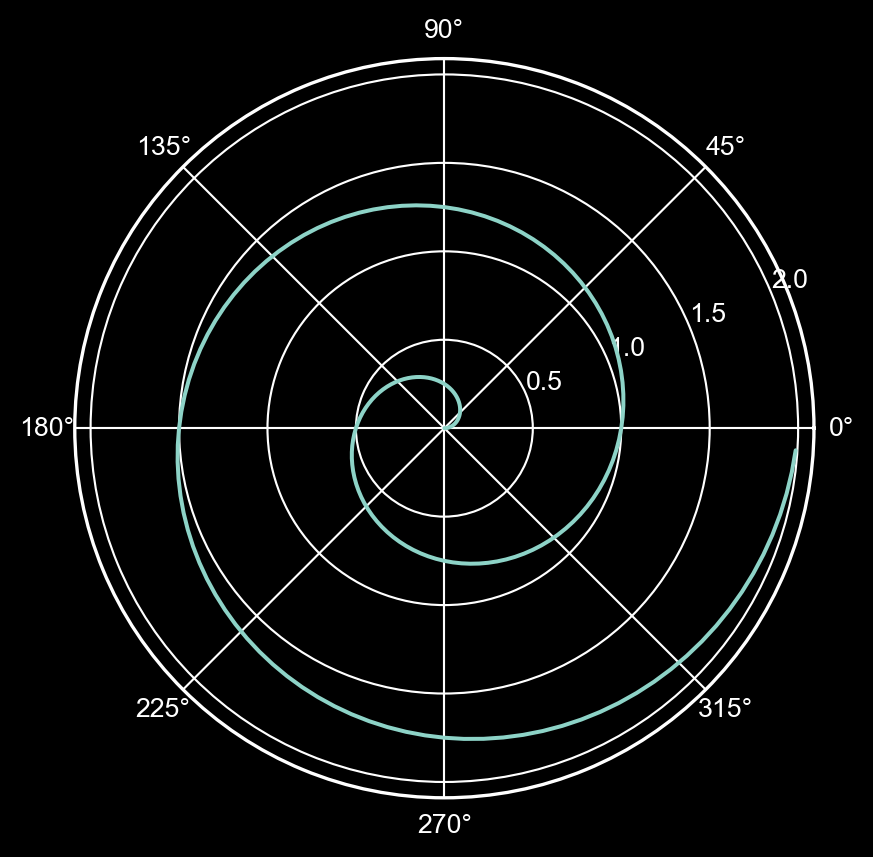
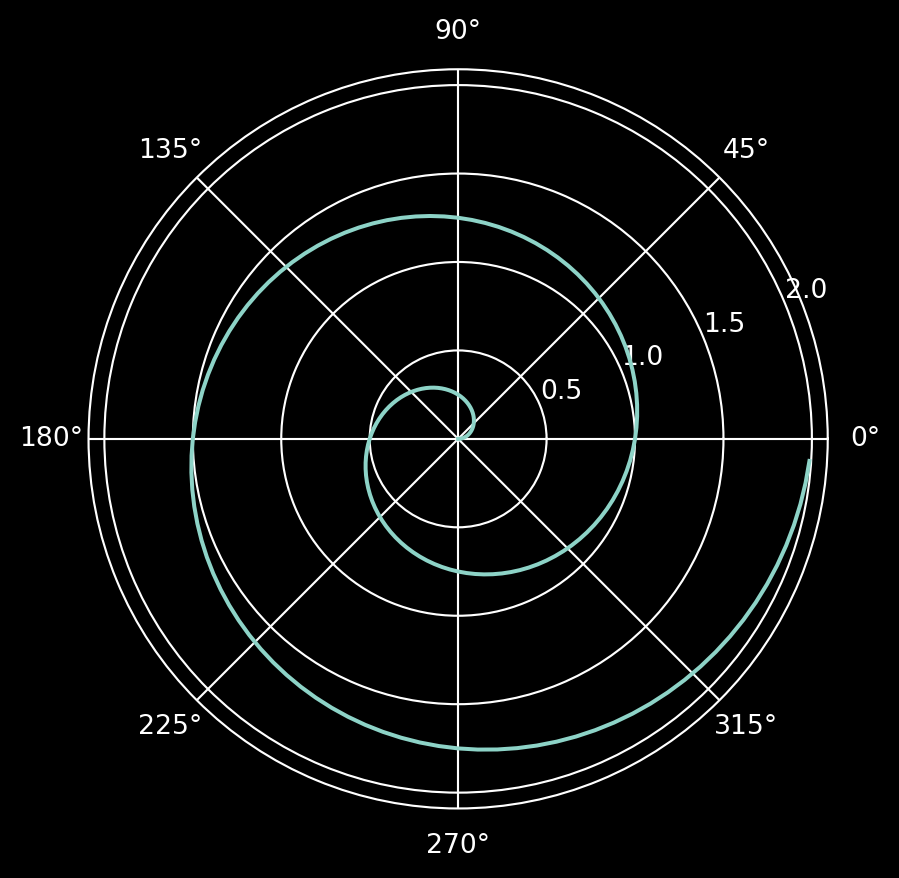
fix

diff --git a/index.scss b/index.scss
@@ -1,6 +1,6 @@
 @import url("https://cdn.jsdelivr.net/gh/wan2land/d2coding/d2coding-ligature-subset.css");
-@import url("https://cdn.jsdelivr.net/gh/sunn-us/SUIT/fonts/variable/woff2/SUIT-Variable.css");
-@import url("https://cdn.jsdelivr.net/gh/sunn-us/SUITE/fonts/variable/woff2/SUITE-Variable.css");
+@import url("https://cdn.jsdelivr.net/gh/sunn-us/SUIT/fonts/static/woff2/SUIT.css");
+@import url("https://cdn.jsdelivr.net/gh/sunn-us/SUITE/fonts/static/woff2/SUITE.css");
 
 /*-- scss:rules --*/
 .reveal h1, 

diff --git a/index.html b/index.html
@@ -802,7 +802,7 @@
 <div class="cell-output cell-output-display">
 <div id="fig-polar" class="quarto-figure quarto-figure-center">
 <figure>
-<p><img data-src="index_files/figure-revealjs/fig-polar-output-1.png" width="437" height="429"></p>
+<p><img data-src="index_files/figure-revealjs/fig-polar-output-1.png" width="450" height="439"></p>
 <p></p><figcaption>Figure&nbsp;1: A line plot on a polar axis</figcaption><p></p>
 </figure>
 </div>
